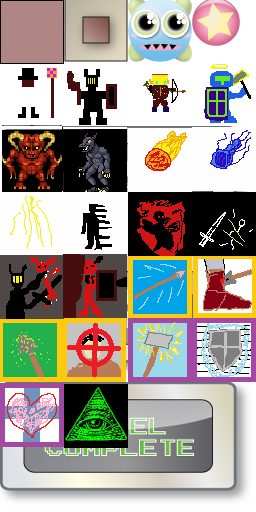
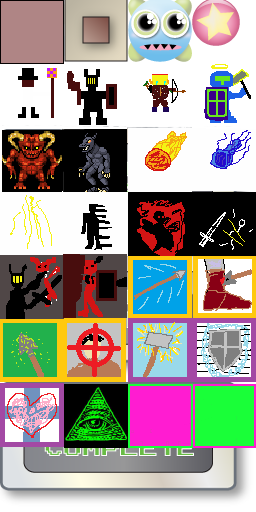
cleanup
kinda cleaned the tilesheet, added filler icons for enemies, reordered
parameters for Unit constructor

Changed region(s): [[0.5, 0.75, 1.0, 0.875], [0.5, 0.2188, 0.75, 0.25]]

diff --git a/src/demonGame.js b/src/demonGame.js
@@ -116,6 +116,9 @@ var TAUNT = 24;
 var HEAL = 25;
 var THORNS = 26;
 
+var RED1 = 27;
+var RED2 = 28;
+
 //etc for other 2 skills and all 4 for each other unit.....
 //WAR_INFO = ;
 //ARC_INFO = ;
@@ -124,9 +127,6 @@ var THORNS = 26;
 //RED2_INFO = ;
 //GREY1_INFO = ;
 //GREY2_INFO = ;
-
-
-
 
 //The size of each tile cell
 var SIZE = 64;
@@ -168,8 +168,6 @@ gameTimer.time = 20;
 gameTimer.start(); */
 
 //var hpAmount = 10;
-
-
 
 //Game states
 var LOADING = 0;
@@ -226,8 +224,8 @@ var WIZ_ABILITIES = [FIREBALL, FROSTBOLT, CHAINL, TELE];
 var WAR_ABILITIES = [RAGE, SLASH, ANNIHILATE, BASH];
 var ARC_ABILITIES = [PA, CA, POISON, HS];
 var PAL_ABILITIES = [SMITE, TAUNT, HEAL, THORNS];
-var RED_ABILITIES = [];
-var GRE_ABILITIES = [];
+var RED_ABILITIES = [RED1, RED2]; //if a hero is clicked then an enemy is clicked, shows the last 2 abilities of the hero (ex: when wiz then red clicked --> red1, red2, chainl, tele)
+var GRE_ABILITIES = [RED1, RED2];
 
 //var UNITINFO_TILESHEET = [];
 var EMPTY_TILESHEET = undefined;
@@ -238,7 +236,7 @@ var PAL_TILESHEET = 8;
 var RED_TILESHEET = 9;
 var GRE_TILESHEET = 10;
 
-function Unit(name, id, hp, abilities, tilesheetlocation)
+function Unit(name, hp, abilities, tilesheetlocation, id)
 {
 	this.name = name;
 	this.id = id;
@@ -250,8 +248,8 @@ function Unit(name, id, hp, abilities, tilesheetlocation)
     this.icon.sourceY = Math.floor((tilesheetlocation - 1) / TILESHEET_COLUMNS) * SIZE;*/
     //this.icon.x = column * SIZE; //the location of the icon needs to change whenever the unit is moved !!!!!the icon position only needs to be changed when the icon is being drawn
     //this.icon.y = row * SIZE;
-            //sprites.push(object);
-	this.xpos = undefined;
+    //sprites.push(object);
+	this.xpos = undefined; //xpos and ypos will vary by map and for each instance of a unit (enemy), so there is no point in setting defaults
 	this.ypos = undefined;
 	
 	//Object.prototype is a property
@@ -363,25 +361,25 @@ function Sprite() //not used, just an experiment
 		switch (template)
 		{
 		case EMPTY:
-			units.push(new Unit(EMPTY_NAME, units.length, EMPTY_HP, EMPTY_ABILITIES, EMPTY_TILESHEET));
+			units.push(new Unit(EMPTY_NAME, EMPTY_HP, EMPTY_ABILITIES, EMPTY_TILESHEET, units.length));
 			break;
 		case WIZARD:
-			units.push(new Unit(WIZ_NAME, units.length, WIZ_HP, WIZ_ABILITIES, WIZ_TILESHEET)); //xpos and ypos will vary by map and for each instance of a unit (enemy)
+			units.push(new Unit(WIZ_NAME, WIZ_HP, WIZ_ABILITIES, WIZ_TILESHEET, units.length));
 			break;
 		case WARLORD:
-			units.push(new Unit(WAR_NAME, units.length, WAR_HP, WAR_ABILITIES, WAR_TILESHEET));
+			units.push(new Unit(WAR_NAME, WAR_HP, WAR_ABILITIES, WAR_TILESHEET, units.length));
 			break;
 		case ARCHER:
-			units.push(new Unit(ARC_NAME, units.length, ARC_HP, ARC_ABILITIES, ARC_TILESHEET));
+			units.push(new Unit(ARC_NAME, ARC_HP, ARC_ABILITIES, ARC_TILESHEET, units.length));
 			break;
 		case PALADIN:
-			units.push(new Unit(PAL_NAME, units.length, PAL_HP, PAL_ABILITIES, PAL_TILESHEET));
+			units.push(new Unit(PAL_NAME, PAL_HP, PAL_ABILITIES, PAL_TILESHEET, units.length));
 			break;
 		case RED:
-			units.push(new Unit(RED_NAME, units.length, RED_HP, RED_ABILITIES, RED_TILESHEET));
+			units.push(new Unit(RED_NAME, RED_HP, RED_ABILITIES, RED_TILESHEET, units.length));
 			break;
 		case GREY:
-			units.push(new Unit(GRE_NAME, units.length, GRE_HP, GRE_ABILITIES, GRE_TILESHEET));
+			units.push(new Unit(GRE_NAME, GRE_HP, GRE_ABILITIES, GRE_TILESHEET, units.length));
 			break;
 		}
 	}
